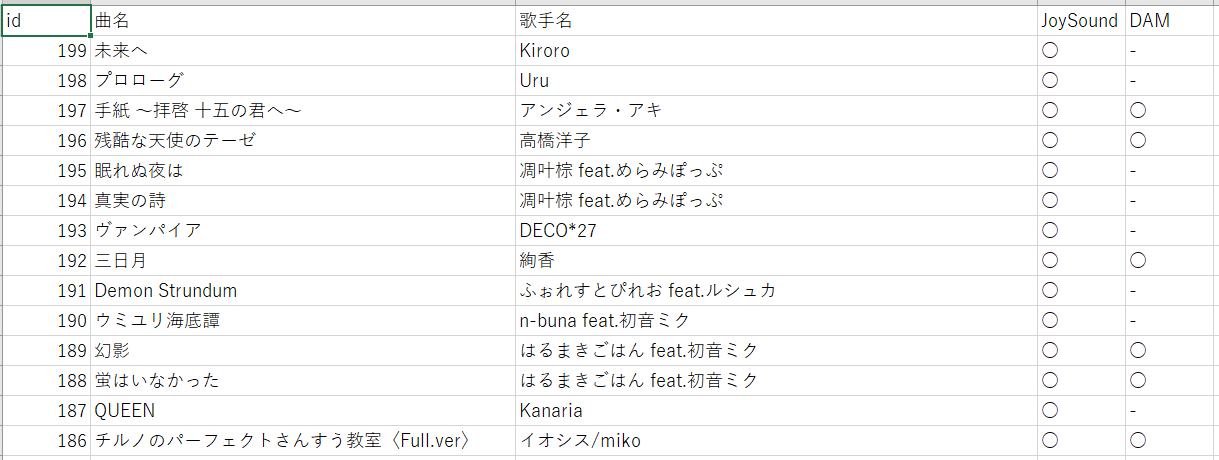
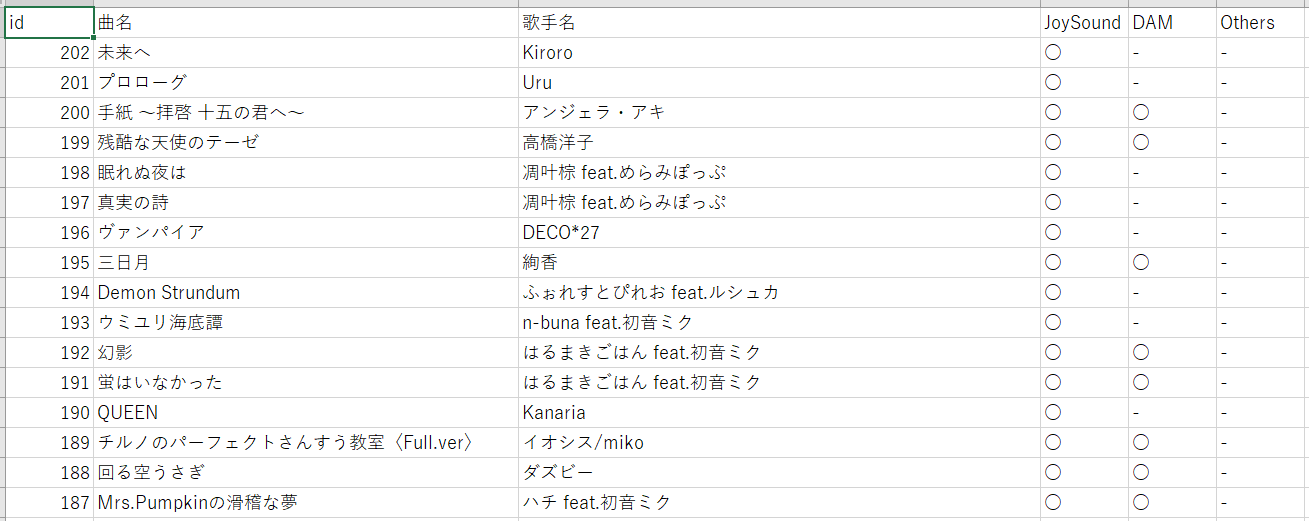
スクショ差し替え等

diff --git a/マイうたDAMcsv化/README.md b/マイうたDAMcsv化/README.md
@@ -52,5 +52,5 @@ JOYSOUND、DAMのどちらの機種にも存在しない曲。
 
 - [サンプルURL](https://github.com/apln-n/Personal-Products/blob/main/%E3%83%9E%E3%82%A4%E3%81%86%E3%81%9FDAMcsv%E5%8C%96/Others.txt)
 
-ここに保存した曲は、`result.csv`の<strong>「他」の属性に「○」</strong>が付きます  
-※もし「他」の属性と「JoySound」or「DAM」の属性に「○」が重複してある場合、`Others.txt`に保存した曲が既にJOYSOUNDかDAMの機種にある可能性があります
+ここに保存した曲は、`result.csv`の<strong>「Others」の属性に「○」</strong>が付きます  
+※もし「Others」の属性と「JoySound」or「DAM」の属性に「○」が重複してある場合、`Others.txt`に保存した曲が既にJOYSOUNDかDAMの機種にある可能性があります
